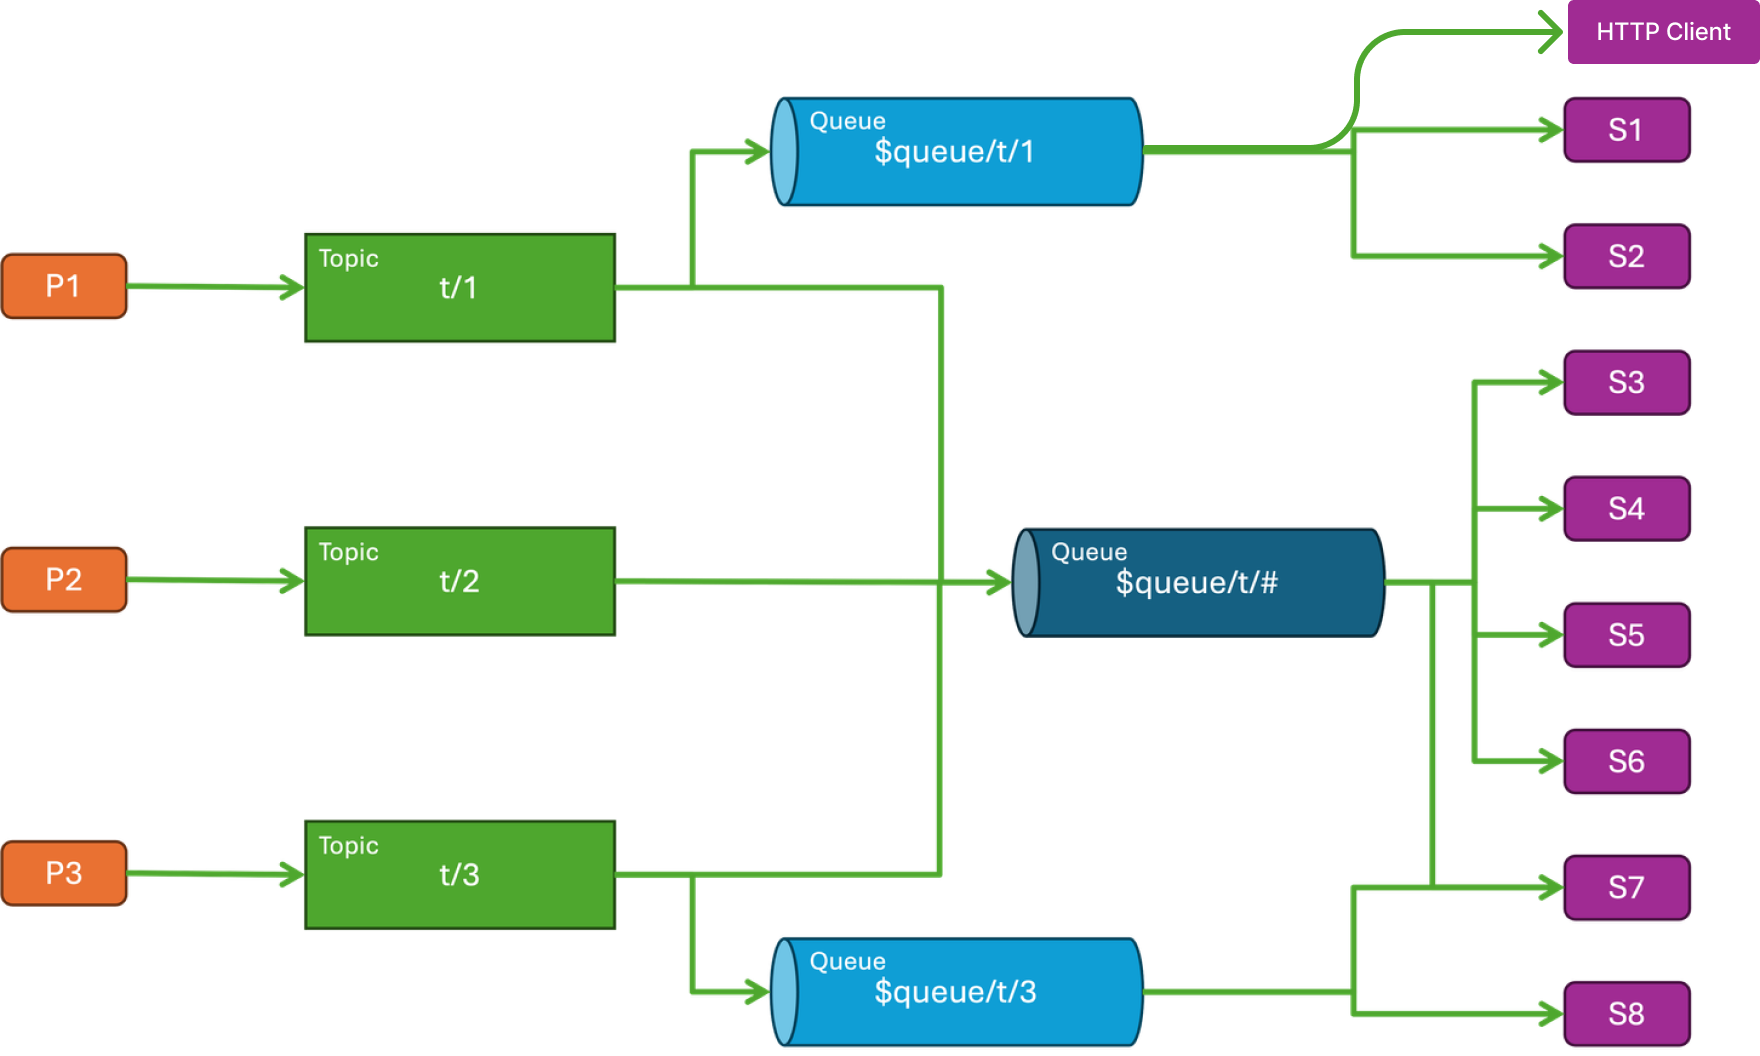
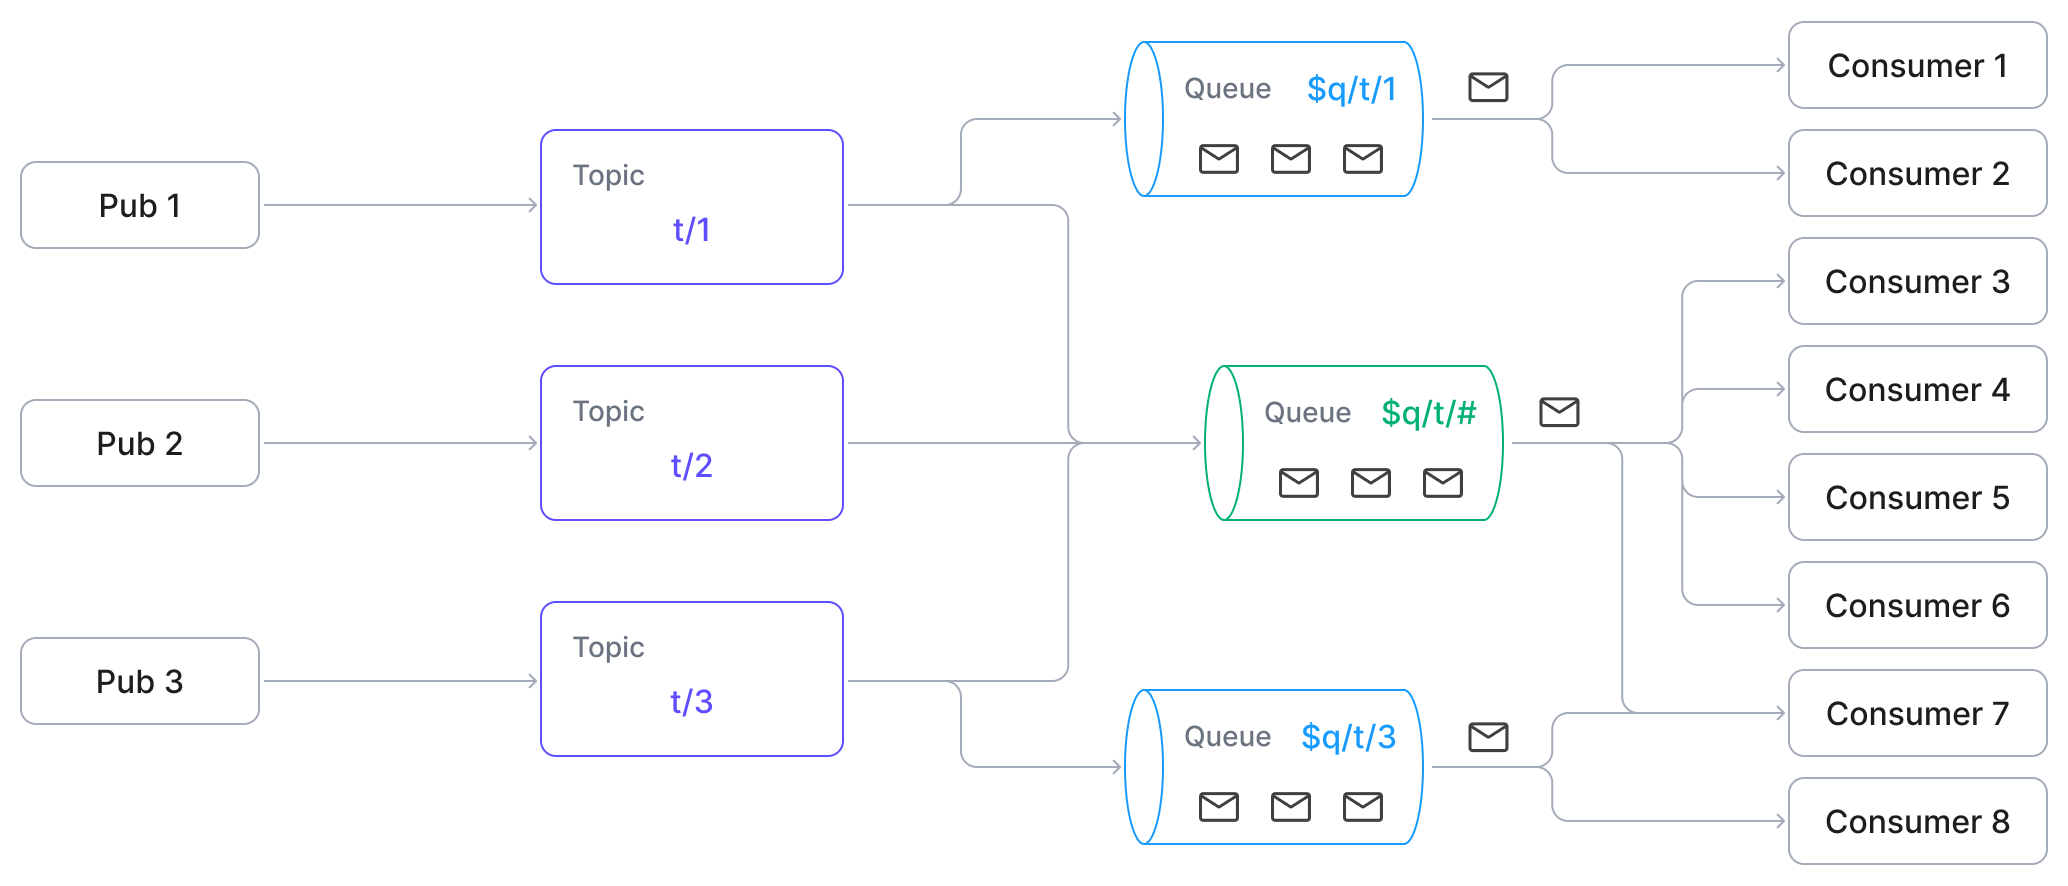
Add MQ routing flow diagram

Changed region(s): [[0.0, 0.0, 1.0, 1.0], [0.4062, 0.7619, 0.4688, 0.7923], [0.4062, 0.4876, 0.4375, 0.5181]]

diff --git a/en_US/getting-started/new-features.md b/en_US/getting-started/new-features.md
@@ -10,11 +10,11 @@ This page highlights major new features supported in the current release. Note t
 
 ### Message Queue
 
-Message Queue unifies reliable real-time MQTT publish/subscribe with asynchronous message queueing within EMQX, without relying on external queuing services.
+Message Queue unifies reliable, real-time MQTT publish/subscribe with asynchronous message queuing within EMQX, eliminating the need for external queuing services.
 
 Unlike traditional MQTT, which depends on subscriber availability, Message Queues decouple publishers and subscribers by buffering messages on the server. Messages matching a specified topic filter are stored persistently and can be consumed later using a special topic format: `$q/{topic_filter}`. This ensures reliable message delivery, even when clients are offline or the network is unstable.
 
-<img src="./assets/message_queue.png" alt="message_queue" style="zoom: 33%;" />
+<img src="./assets/message_queque.png" alt="message_queque" style="zoom:50%;" />
 
 This feature enables MQTT to handle both real-time and delayed workloads, simplifying IoT system architecture by removing the need for external queuing systems like Kafka or RabbitMQ. It’s ideal for scenarios where message durability, reliable delivery, and offline buffering are critical.
 

diff --git a/en_US/message-queue/message-queue-concept.md b/en_US/message-queue/message-queue-concept.md
@@ -10,6 +10,8 @@ A Message Queue in EMQX is a durable, server-side buffer that holds MQTT message
 
 Unlike traditional MQTT behavior, Message Queues persist messages even when no clients are online. Clients can consume these messages by subscribing to the special `$q/{topic}` format.
 
+<img src="./assets/message_queque_routing_overview.png" alt="message_queque_routing_overview" style="zoom:50%;" />
+
 ## Why Use Message Queue?
 
 MQTT is a lightweight and widely adopted publish/subscribe protocol. However, its default behavior tightly couples message delivery to subscriber availability, which can be limiting for asynchronous or delayed-consumption scenarios.
